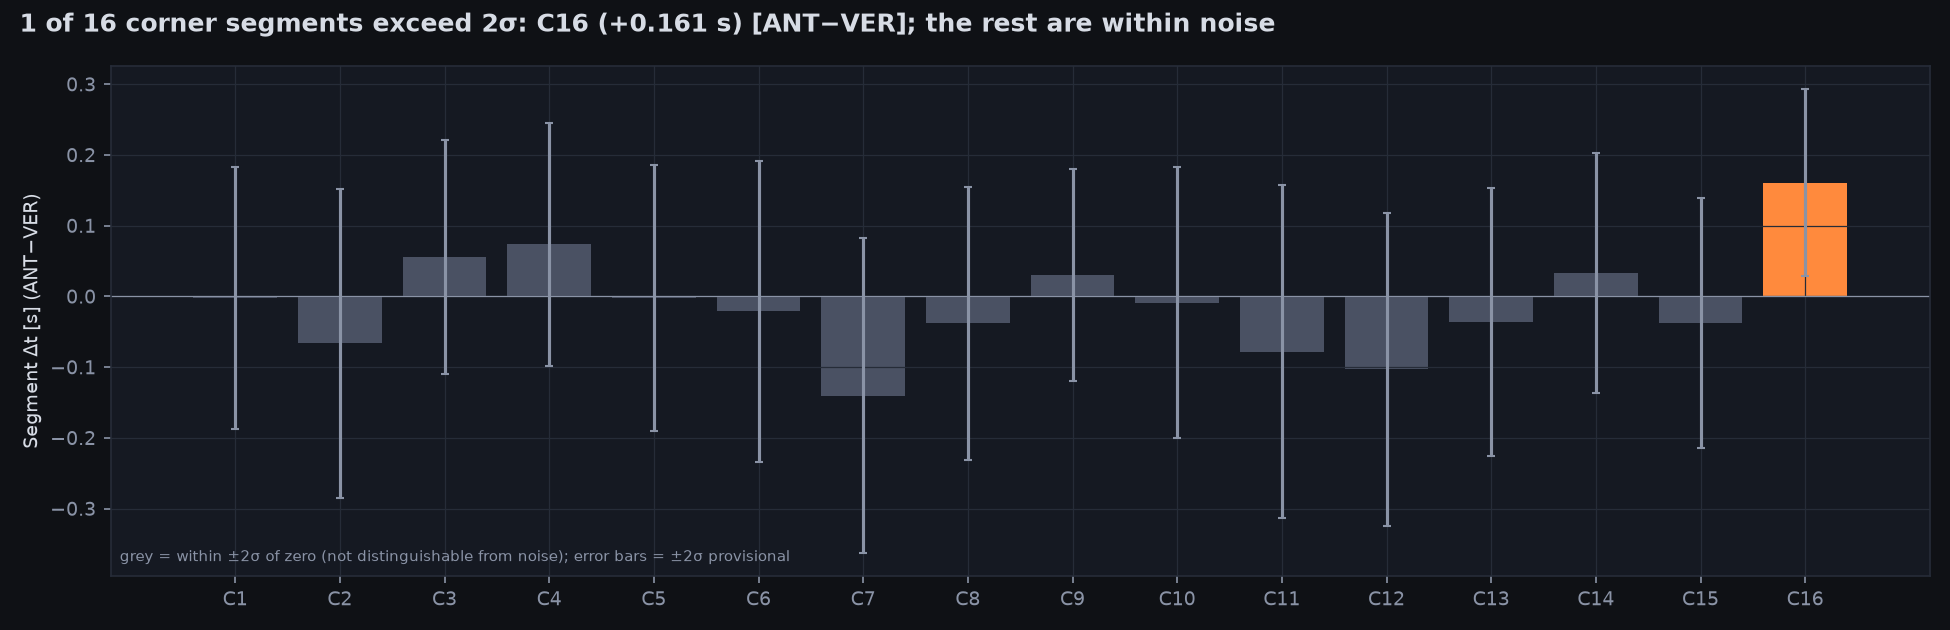
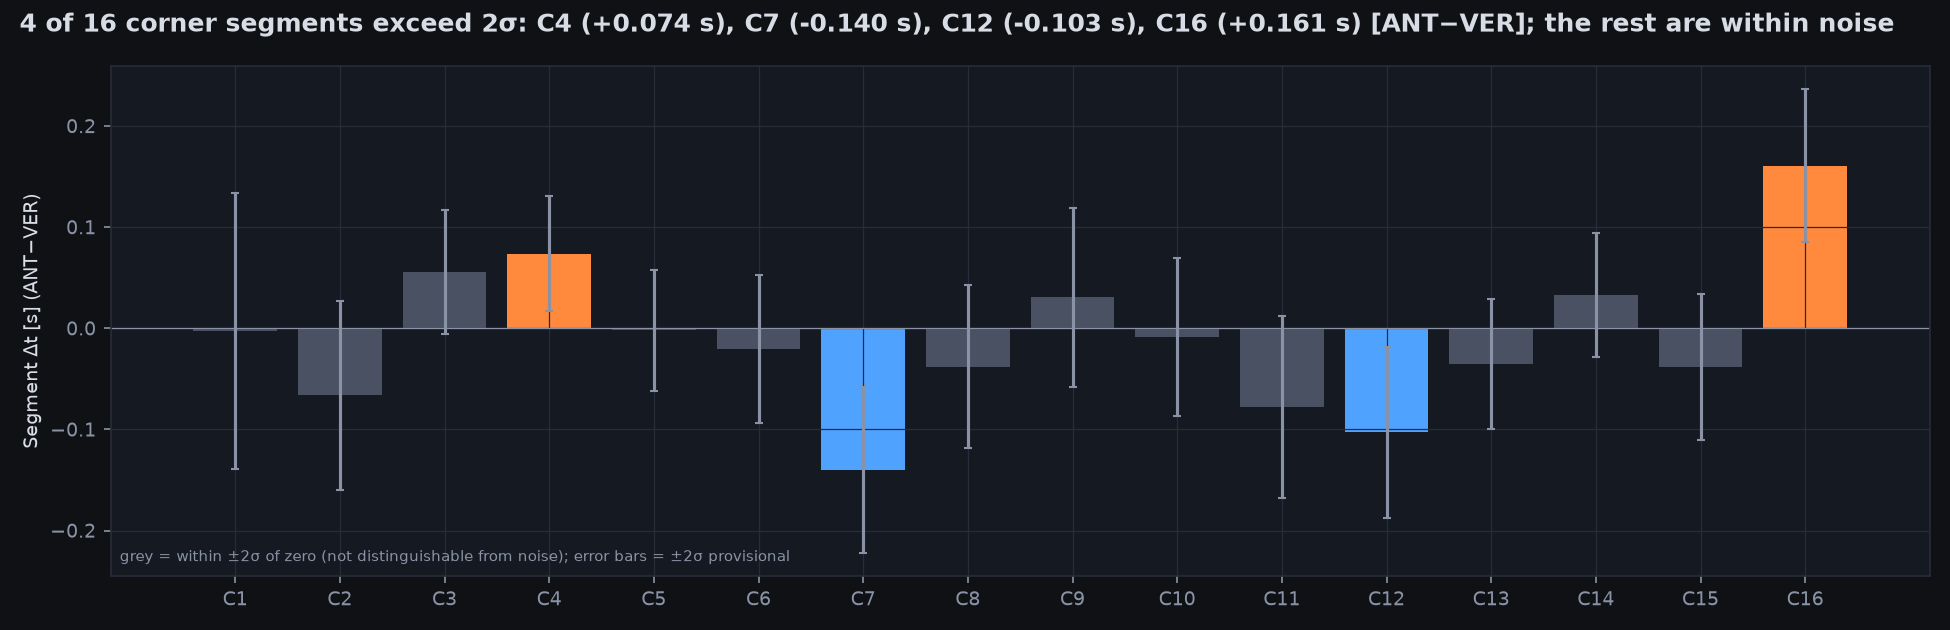
docs: regenerate case study 01 outputs for the Phase 3 noise model
Output of 'uv run python examples/case_study_01.py'. NOTE: the sigma values changed,
so C4, C7, C12 and C16 now exceed 2 sigma. The hand-written findings in
docs/CASE_STUDY_01.md (findings 4, 5 and the '15 of 16 within noise' summary) still
describe the old model and need review before this merges.

Claude-Session: https://claude.ai/code/session_01MqU6QkYrDBYXAJ1RzhNrrf

diff --git a/docs/case_study_01/summary.md b/docs/case_study_01/summary.md
@@ -25,22 +25,22 @@
 
 | Segment | from–to [m] | Δ [s] | ±2σ [s] | |
 |---|---|---|---|---|
-| C1 | 0–730 | -0.002 | 0.185 | within noise |
-| C2 | 730–970 | -0.066 | 0.219 | within noise |
-| C3 | 970–1211 | +0.056 | 0.165 | within noise |
-| C4 | 1211–1407 | +0.074 | 0.172 | within noise |
-| C5 | 1407–1594 | -0.002 | 0.188 | within noise |
-| C6 | 1594–1766 | -0.021 | 0.213 | within noise |
-| C7 | 1766–1996 | -0.140 | 0.223 | within noise |
-| C8 | 1996–2332 | -0.038 | 0.193 | within noise |
-| C9 | 2332–3125 | +0.031 | 0.150 | within noise |
-| C10 | 3125–3830 | -0.009 | 0.191 | within noise |
-| C11 | 3830–4078 | -0.078 | 0.236 | within noise |
-| C12 | 4078–4366 | -0.103 | 0.221 | within noise |
-| C13 | 4366–4560 | -0.036 | 0.189 | within noise |
-| C14 | 4560–4786 | +0.033 | 0.169 | within noise |
-| C15 | 4786–5116 | -0.038 | 0.177 | within noise |
-| C16 | 5116–5418 | +0.161 | 0.132 | exceeds 2σ |
+| C1 | 0–730 | -0.002 | 0.136 | within noise |
+| C2 | 730–970 | -0.066 | 0.093 | within noise |
+| C3 | 970–1211 | +0.056 | 0.061 | within noise |
+| C4 | 1211–1407 | +0.074 | 0.057 | exceeds 2σ |
+| C5 | 1407–1594 | -0.002 | 0.060 | within noise |
+| C6 | 1594–1766 | -0.021 | 0.073 | within noise |
+| C7 | 1766–1996 | -0.140 | 0.082 | exceeds 2σ |
+| C8 | 1996–2332 | -0.038 | 0.081 | within noise |
+| C9 | 2332–3125 | +0.031 | 0.088 | within noise |
+| C10 | 3125–3830 | -0.009 | 0.079 | within noise |
+| C11 | 3830–4078 | -0.078 | 0.090 | within noise |
+| C12 | 4078–4366 | -0.103 | 0.084 | exceeds 2σ |
+| C13 | 4366–4560 | -0.036 | 0.064 | within noise |
+| C14 | 4560–4786 | +0.033 | 0.061 | within noise |
+| C15 | 4786–5116 | -0.038 | 0.072 | within noise |
+| C16 | 5116–5418 | +0.161 | 0.076 | exceeds 2σ |
 
 ## Braking corners (raw-sample events; resolution = half the sample spacing)
 
